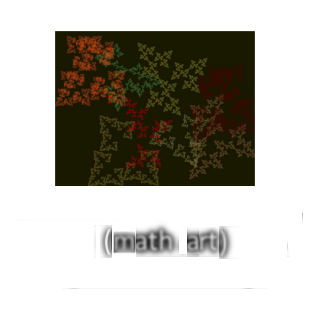
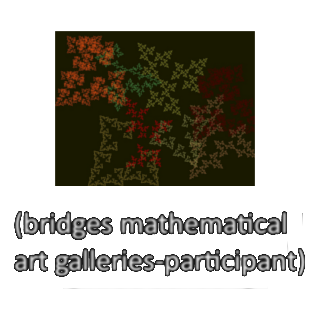
fixes

Changed region(s): [[0.029, 0.6677, 0.9871, 0.9]]

diff --git a/sketch.js b/sketch.js
@@ -623,11 +623,24 @@ function populatemenus(){
 	menus[5].add(new Button(false,"mailto:harryrubinfalcone@gmail.com",.5,.6,.25,.25,false,"contact2"));
 	
 	
+	var fl2y=.72;
+	
 	//festivals
-	menus[6].add(new Button(false,"http://airport-anifes.jp/en/competition/awards/",.3,.4,.3,.3,false,"chiose"));
-	menus[6].add(new Button(false,"http://www.festivalcinemadarte.com/film-eng",.7,.4,.3,.3,false,"darte"));
+	menus[6].add(new Disptext("three dancers",.5,.28,.4));
+	menus[6].add(new Button(false,"http://airport-anifes.jp/en/competition/awards/",.35,.4,.25,.25,false,"chiose"));
+	menus[6].add(new Button(false,"http://www.festivalcinemadarte.com/film-eng",.65,.4,.25,.25,false,"darte"));
 
-	menus[6].add(new Button(false,"http://gallery.bridgesmathart.org/exhibitions/2013-joint-mathematics-meetings/hrubinfa",.5,.6,.3,.3,false,"bridges"));
+	menus[6].add(new Disptext("me and the machine in space",1/6,fl2y-.07,.2));
+	menus[6].add(new Button(false,"http://www.eafit.edu.co/fismed/homeen.html#guest",1/6,fl2y,.1,.1,false,"fismed"));
+	
+	menus[6].add(new Disptext("the ship we built",.5,fl2y-.07,.2));
+	menus[6].add(new Button(false,"http://www.locomocionfest.com/festival/",.5,fl2y,.1,.1,false,"loco"));
+
+	menus[6].add(new Disptext("math art",5/6,fl2y-.07,.2));
+	menus[6].add(new Button(false,"http://gallery.bridgesmathart.org/exhibitions/2013-joint-mathematics-meetings/hrubinfa",5/6,fl2y,.15,.15,false,"bridges"));
+
+	
+	
 	
 	//videos
 	menus[7].add(new Vid(1,"oBvd2DjFr60",7));
